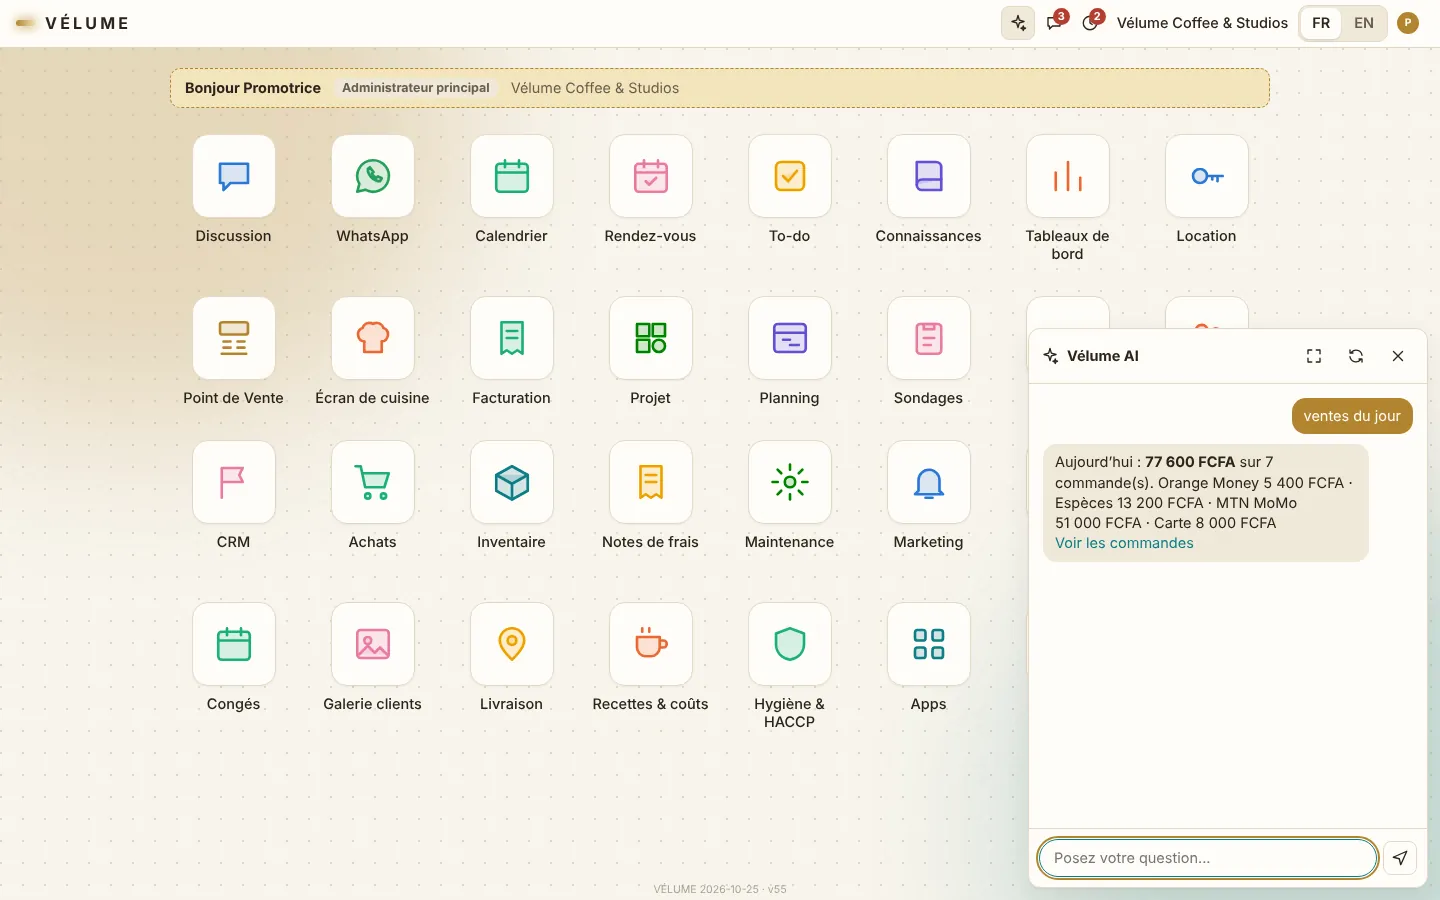
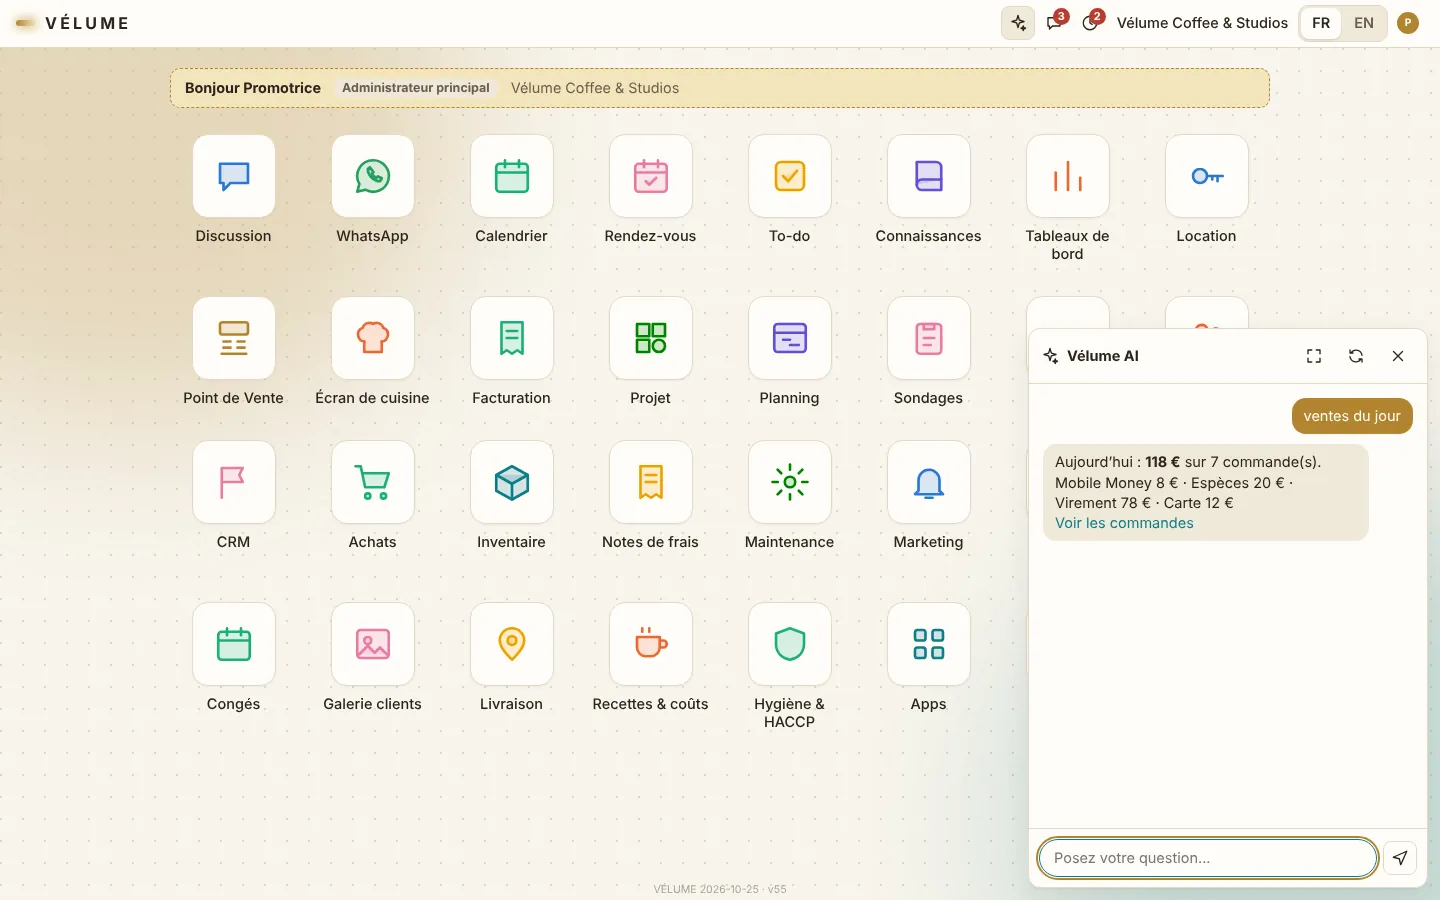
Vélume vendu dans le monde entier : plus de lien vers l'application, paiements génériques (espèces, carte, virement, mobile), multi-devises, captures en euros ; fond animé tech sur toutes les pages
Claude-Session: https://claude.ai/code/session_01NECcHvK372EpEwVuQBNQsb

Changed region(s): [[0.7188, 0.4978, 0.9688, 0.6222]]

diff --git a/src/routes/velume/+page.svelte b/src/routes/velume/+page.svelte
@@ -11,13 +11,12 @@
 	} from 'lucide-svelte';
 
 	const url = `${site.url}/velume`;
-	const appUrl = 'https://velum-app-cyan.vercel.app/';
 	const waDemo = `https://wa.me/33659173774?text=${encodeURIComponent('Bonjour, je souhaite une démonstration de Vélume, le logiciel de gestion tout-en-un.')}`;
 
 
 	const modules = [
 		{ icon: Store, t: 'Point de vente', s: 'Caisse tactile, tickets, sessions' },
-		{ icon: Wallet, t: 'Caisse & Mobile Money', s: 'Orange Money, MTN MoMo, clôtures' },
+		{ icon: Wallet, t: 'Caisse & paiements', s: 'Tous moyens de paiement, clôtures' },
 		{ icon: Receipt, t: 'Facturation', s: 'Devis, factures, paiements' },
 		{ icon: CalendarDays, t: 'Rendez-vous & location', s: 'Réservation en ligne, acomptes' },
 		{ icon: MessageCircle, t: 'WhatsApp & discussion', s: 'Clients, équipe, visio' },
@@ -32,12 +31,12 @@
 
 	const benefits = [
 		{ icon: Layers, title: 'Un seul logiciel au lieu de dix', text: 'Caisse, factures, stock, planning, réservations et messages au même endroit : fini les cahiers, Excel et applications qui ne se parlent pas.' },
-		{ icon: Smartphone, title: 'Pensé pour le Mobile Money', text: 'Orange Money, MTN MoMo, espèces et carte suivis séparément, montants en FCFA, clôture de caisse qui calcule les écarts.' },
+		{ icon: CreditCard, title: 'Tous les moyens de paiement', text: 'Espèces, carte bancaire, virement, Mobile Money ou portefeuille local : chaque paiement est suivi séparément, dans votre devise.' },
 		{ icon: ChartColumn, title: 'Vos chiffres en temps réel', text: 'Ventes du jour, factures en retard, stock bas : vous savez où en est votre entreprise sans attendre la fin du mois.' },
 		{ icon: Bot, title: 'Un assistant IA intégré', text: 'Demandez « ventes du jour » ou « créneaux libres demain » et Vélume répond, sans chercher dans les menus.' },
 		{ icon: MessageCircle, title: 'WhatsApp au cœur de la relation', text: 'Les demandes clients deviennent des opportunités dans le CRM, avec réponses types et appel vidéo.' },
 		{ icon: Monitor, title: 'Sur tous les écrans', text: 'Téléphone, tablette, poste de travail ou caisse tactile : l’interface s’adapte à chaque poste.' },
-		{ icon: Languages, title: 'Français et anglais', text: 'Interface, menus et rapports bilingues, en un clic, pour vos équipes et vos clients.' },
+		{ icon: Languages, title: 'Multilingue et multi-devises', text: 'Interface en français et en anglais, montants dans la devise de votre pays : Vélume s’adapte à votre marché.' },
 		{ icon: ShieldCheck, title: 'Droits par rôle', text: 'Gérant, barista, serveur, cuisinier, photographe : chacun ne voit que ce qui le concerne.' }
 	];
 
@@ -45,7 +44,7 @@
 		{ icon: Coffee, title: 'Cafés et salons de thé', text: 'Caisse, écran bar, recettes et coût des boissons, fidélité.' },
 		{ icon: UtensilsCrossed, title: 'Restaurants', text: 'Commandes en salle, écran cuisine, livraison et hygiène HACCP.' },
 		{ icon: Camera, title: 'Studios photo, vidéo, podcast', text: 'Réservation de créneaux, acomptes, galerie clients et contrats signés.' },
-		{ icon: ShoppingBag, title: 'Boutiques et commerces', text: 'Point de vente, stock, achats fournisseurs et Mobile Money.' },
+		{ icon: ShoppingBag, title: 'Boutiques et commerces', text: 'Point de vente, stock, achats fournisseurs et encaissements.' },
 		{ icon: Scissors, title: 'Salons et instituts', text: 'Rendez-vous en ligne, planning des équipes et cartes de fidélité.' },
 		{ icon: ClipboardList, title: 'PME de services', text: 'Devis, factures, projets, notes de frais et suivi des employés.' }
 	];
@@ -58,11 +57,11 @@
 	];
 
 	const faq = [
-		{ q: 'Qu’est-ce que Vélume ?', a: 'Vélume est un logiciel de gestion tout-en-un (de type ERP) conçu par Norbert Digital Service pour les cafés, restaurants, studios et commerces. Il réunit plus de 30 applications : point de vente, caisse et Mobile Money, facturation, inventaire, réservations, planning, CRM, WhatsApp et un assistant IA.' },
-		{ q: 'Vélume gère-t-il Orange Money et MTN Mobile Money ?', a: 'Oui. Chaque encaissement est enregistré par moyen de paiement (espèces, Orange Money, MTN MoMo, carte), les montants sont en FCFA et la clôture de caisse calcule automatiquement les écarts.' },
+		{ q: 'Qu’est-ce que Vélume ?', a: 'Vélume est un logiciel de gestion tout-en-un (de type ERP) conçu par Norbert Digital Service pour les cafés, restaurants, studios et commerces. Il réunit plus de 30 applications : point de vente, caisse multi-paiements, facturation, inventaire, réservations, planning, CRM, WhatsApp et un assistant IA.' },
+		{ q: 'Quels moyens de paiement Vélume gère-t-il ?', a: 'Tous les moyens de paiement courants : espèces, carte bancaire, virement, Mobile Money et portefeuilles électroniques locaux. Chaque encaissement est enregistré par moyen de paiement, dans votre devise, et la clôture de caisse calcule automatiquement les écarts.' },
 		{ q: 'Sur quels appareils fonctionne Vélume ?', a: 'Dans le navigateur, sur téléphone, tablette, ordinateur ou caisse tactile. L’affichage s’adapte au poste de travail, sans installation compliquée.' },
-		{ q: 'Pour quels types d’entreprises ?', a: 'Cafés, restaurants, studios photo et vidéo, boutiques, salons et PME de services, en Afrique francophone comme en France. Les modules s’activent selon votre activité.' },
-		{ q: 'Vélume existe-t-il en anglais ?', a: 'Oui, l’interface, les menus et les rapports sont disponibles en français et en anglais, avec un changement de langue en un clic.' },
+		{ q: 'Pour quels types d’entreprises ?', a: 'Cafés, restaurants, studios photo et vidéo, boutiques, salons et PME de services, partout dans le monde : Europe, Afrique, Amérique du Nord, Moyen-Orient. Les modules s’activent selon votre activité.' },
+		{ q: 'Vélume fonctionne-t-il dans mon pays ?', a: 'Oui. Vélume s’utilise dans le navigateur, partout dans le monde. L’interface est en français et en anglais, les montants s’affichent dans votre devise et les moyens de paiement se configurent selon votre marché.' },
 		{ q: 'Comment obtenir Vélume pour mon entreprise ?', a: 'Demandez une démonstration avec le formulaire ci-dessous ou sur WhatsApp. Nous vous présentons l’outil sur votre activité, puis nous le configurons à votre marque.' }
 	];
 
@@ -99,8 +98,8 @@
 </script>
 
 <Seo
-	title="Vélume : logiciel de gestion tout-en-un, caisse et Mobile Money"
-	description="Vélume, le logiciel de gestion tout-en-un pour cafés, restaurants, studios et commerces : caisse, Orange Money et MTN MoMo, facturation, stock, réservations, planning, CRM, WhatsApp et assistant IA. Démo gratuite."
+	title="Vélume : logiciel de gestion tout-en-un, caisse et facturation"
+	description="Vélume, le logiciel de gestion tout-en-un pour cafés, restaurants, studios et commerces du monde entier : caisse et tous moyens de paiement, facturation, stock, réservations, planning, CRM, WhatsApp et assistant IA. Démo gratuite."
 	image="/images/velume/velume-tableau-de-bord.webp"
 	jsonLd={[
 		{
@@ -110,11 +109,11 @@
 			applicationCategory: 'BusinessApplication',
 			applicationSubCategory: 'ERP, logiciel de caisse, logiciel de gestion',
 			operatingSystem: 'Web, Android, iOS, Windows, macOS',
-			description: 'Logiciel de gestion tout-en-un : point de vente, caisse et Mobile Money, facturation, inventaire, réservations, planning, CRM, WhatsApp et assistant IA, en français et en anglais.',
-			keywords: 'logiciel de gestion, ERP Afrique, logiciel de caisse, caisse enregistreuse, Mobile Money, Orange Money, MTN MoMo, gestion restaurant, gestion café, réservation studio, facturation FCFA, gestion de stock, planning employés',
+			description: 'Logiciel de gestion tout-en-un : point de vente, caisse multi-paiements, facturation, inventaire, réservations, planning, CRM, WhatsApp et assistant IA, en français et en anglais.',
+			keywords: 'logiciel de gestion, ERP, ERP PME, logiciel de caisse, caisse enregistreuse, point de vente, gestion restaurant, gestion café, logiciel de réservation, facturation, gestion de stock, planning employés, business management software, POS software',
 			inLanguage: ['fr', 'en'],
-			areaServed: ['Cameroun', 'Côte d’Ivoire', 'Sénégal', 'Gabon', 'France', 'Afrique francophone'],
-			screenshot: ['velume-tableau-de-bord', 'velume-assistant-ia', 'velume-ouverture-caisse', 'velume-caisse-mobile-money'].map((n) => `${site.url}/images/velume/${n}.webp`),
+			areaServed: 'Worldwide',
+			screenshot: ['velume-tableau-de-bord', 'velume-assistant-ia', 'velume-planning', 'velume-caisse-mobile-money'].map((n) => `${site.url}/images/velume/${n}.webp`),
 			featureList: modules.map((m) => `${m.t} : ${m.s}`).join(' ; '),
 			offers: { '@type': 'Offer', price: '0', priceCurrency: 'EUR', description: 'Démonstration gratuite' },
 			url,
@@ -144,16 +143,16 @@
 			<span class="badge"><span class="dot"></span> Nouveau · Une solution Norbert Digital Service</span>
 			<h1 class="title">Vélume, <span class="hl">toute votre entreprise</span> dans un seul logiciel</h1>
 			<p class="lead">
-				Caisse et Mobile Money, factures, stock, réservations, planning des équipes, CRM et WhatsApp : Vélume réunit plus de 30 applications
-				de gestion, pensées pour les cafés, restaurants, studios et commerces d’Afrique et d’ailleurs.
+				Caisse et paiements, factures, stock, réservations, planning des équipes, CRM et WhatsApp : Vélume réunit plus de 30 applications
+				de gestion, pensées pour les cafés, restaurants, studios et commerces, partout dans le monde.
 			</p>
 			<div class="ctas">
 				<a href="#demo" class="btn-lime">Demander une démo <ArrowRight class="w-4 h-4" /></a>
 				<a href="#visite" class="btn-line">Aperçu en images</a>
 			</div>
 			<ul class="hero-points">
-				<li><Check class="w-4 h-4" /> Orange Money et MTN MoMo</li>
-				<li><Check class="w-4 h-4" /> Montants en FCFA</li>
+				<li><Check class="w-4 h-4" /> Tous moyens de paiement</li>
+				<li><Check class="w-4 h-4" /> Multi-devises</li>
 				<li><Check class="w-4 h-4" /> Français et anglais</li>
 			</ul>
 		</div>
@@ -161,7 +160,7 @@
 		<div class="browser-wrap">
 			<div class="browser">
 				<div class="browser-bar"><span></span><span></span><span></span><em>Vélume · tableau de bord</em></div>
-				<img src="/images/velume/velume-tableau-de-bord.webp" alt="Vélume : tableau de bord des ventes du jour en FCFA, réparties entre espèces, Orange Money, MTN MoMo et carte" width="1440" height="900" fetchpriority="high" />
+				<img src="/images/velume/velume-tableau-de-bord.webp" alt="Vélume : tableau de bord des ventes du jour, réparties par moyen de paiement (espèces, mobile, virement, carte)" width="1440" height="900" fetchpriority="high" />
 			</div>
 			<div class="mobile-float">
 				<img src="/images/velume/velume-mobile.webp" alt="Vélume sur téléphone" width="780" height="1688" loading="lazy" decoding="async" />
@@ -174,8 +173,8 @@
 <section class="strip">
 	<div class="wrap strip-grid" use:reveal={{ stagger: 80 }}>
 		<div data-reveal-item><strong>30+</strong><span>applications intégrées</span></div>
-		<div data-reveal-item><strong>4 moyens</strong><span>espèces, Orange Money, MTN MoMo, carte</span></div>
-		<div data-reveal-item><strong>2 langues</strong><span>français et anglais</span></div>
+		<div data-reveal-item><strong>Tous paiements</strong><span>espèces, carte, virement, mobile</span></div>
+		<div data-reveal-item><strong>Monde entier</strong><span>multilingue et multi-devises</span></div>
 		<div data-reveal-item><strong>Tous écrans</strong><span>téléphone, tablette, caisse</span></div>
 	</div>
 </section>
@@ -188,7 +187,7 @@
 			<h2 class="h2">Votre activité ne tient plus dans un cahier et trois applications</h2>
 		</div>
 		<div class="why-text">
-			<p>Les ventes sont notées à la caisse, les paiements Mobile Money sur le téléphone du gérant, les factures dans Excel, les réservations sur WhatsApp et le planning sur un papier au mur. Le soir, personne ne sait vraiment combien l’entreprise a gagné.</p>
+			<p>Les ventes sont notées à la caisse, les paiements par carte et par mobile sur un autre outil, les factures dans Excel, les réservations sur WhatsApp et le planning sur un papier au mur. Le soir, personne ne sait vraiment combien l’entreprise a gagné.</p>
 			<p>Vélume met tout au même endroit. <strong>Chaque vente, chaque paiement et chaque réservation alimente automatiquement vos tableaux de bord</strong> : vous pilotez avec des chiffres justes, en temps réel.</p>
 		</div>
 	</div>
@@ -204,12 +203,12 @@
 		</header>
 		<div class="duo" use:reveal={{ stagger: 120 }}>
 			<figure class="viewer" data-reveal-item>
-				<img src="/images/velume/velume-assistant-ia.webp" alt="Vélume AI : l’assistant répond à la question « ventes du jour » avec le total en FCFA et le détail Orange Money, MTN MoMo, espèces et carte" width="1440" height="900" loading="lazy" decoding="async" />
+				<img src="/images/velume/velume-assistant-ia.webp" alt="Vélume AI : l’assistant répond à la question « ventes du jour » avec le total et le détail par moyen de paiement" width="1440" height="900" loading="lazy" decoding="async" />
 				<figcaption><b>Assistant Vélume AI</b>Une question en français, une réponse chiffrée : ventes du jour, factures en retard, créneaux libres.</figcaption>
 			</figure>
 			<figure class="viewer" data-reveal-item>
-				<img src="/images/velume/velume-ouverture-caisse.webp" alt="Vélume : ouverture de caisse avec comptage des billets et pièces en FCFA" width="1440" height="900" loading="lazy" decoding="async" />
-				<figcaption><b>Point de vente</b>Ouverture de caisse avec comptage des billets et pièces en FCFA : le tiroir attendu le soir est calculé tout seul.</figcaption>
+				<img src="/images/velume/velume-planning.webp" alt="Vélume : planning hebdomadaire des employés par poste" width="1440" height="900" loading="lazy" decoding="async" />
+				<figcaption><b>Planning des équipes</b>Les horaires de chaque employé sur la semaine, publiés en un clic et recopiés d’une semaine à l’autre.</figcaption>
 			</figure>
 		</div>
 		<p class="note"><Lock class="w-4 h-4" /> Vous voulez voir le reste ? <a href="#demo">Demandez une démonstration</a> : nous vous montrons tous les modules sur votre activité.</p>
@@ -255,17 +254,17 @@
 <section class="night">
 	<div class="wrap dash-grid">
 		<div use:reveal>
-			<span class="kicker light">Caisse & Mobile Money</span>
+			<span class="kicker light">Caisse & paiements</span>
 			<h2 class="h2 light">Chaque franc encaissé est suivi, du tiroir au téléphone</h2>
-			<p class="night-text">À l’ouverture, l’équipe compte le fond de caisse. Pendant la journée, chaque vente est rangée par moyen de paiement. Le soir, Vélume calcule ce que le tiroir et les comptes Mobile Money doivent contenir, et signale le moindre écart.</p>
+			<p class="night-text">À l’ouverture, l’équipe compte le fond de caisse. Pendant la journée, chaque vente est rangée par moyen de paiement. Le soir, Vélume calcule ce que le tiroir et chaque compte de paiement doivent contenir, et signale le moindre écart.</p>
 			<ul class="night-list">
-				<li><Check class="w-4 h-4" /> Espèces, Orange Money, MTN MoMo et carte séparés</li>
-				<li><Check class="w-4 h-4" /> Comptage des billets et pièces en FCFA</li>
-				<li><Check class="w-4 h-4" /> Rapprochement des transactions Mobile Money</li>
+				<li><Check class="w-4 h-4" /> Espèces, carte, virement et paiement mobile séparés</li>
+				<li><Check class="w-4 h-4" /> Comptage du fond de caisse, dans votre devise</li>
+				<li><Check class="w-4 h-4" /> Rapprochement des paiements électroniques</li>
 			</ul>
 		</div>
 		<figure class="viewer" use:reveal={{ delay: 120 }}>
-			<img src="/images/velume/velume-caisse-mobile-money.webp" alt="Vélume : vue d’ensemble Caisse et Mobile Money avec espèces, Orange Money, MTN MoMo, carte et clôtures de caisse" width="1440" height="900" loading="lazy" decoding="async" />
+			<img src="/images/velume/velume-caisse-mobile-money.webp" alt="Vélume : vue d’ensemble de la caisse avec espèces, paiement mobile, virement, carte et clôtures de caisse" width="1440" height="900" loading="lazy" decoding="async" />
 		</figure>
 	</div>
 </section>
@@ -313,7 +312,7 @@
 		<div use:reveal>
 			<span class="kicker">Questions fréquentes</span>
 			<h2 class="h2">Tout savoir sur le logiciel de gestion Vélume</h2>
-			<p class="sub">Mobile Money, appareils, secteurs et langues : les réponses aux questions qu’on nous pose le plus. Pour aller plus loin, lisez notre <a class="inline-link" href="/blog/velume-logiciel-de-gestion-tout-en-un-caisse-mobile-money-stock">article complet sur Vélume</a>.</p>
+			<p class="sub">Paiements, appareils, secteurs et pays : les réponses aux questions qu’on nous pose le plus. Pour aller plus loin, lisez notre <a class="inline-link" href="/blog/velume-logiciel-de-gestion-tout-en-un-caisse-mobile-money-stock">article complet sur Vélume</a>.</p>
 		</div>
 		<div class="faq">
 			{#each faq as f}
@@ -341,7 +340,6 @@
 			<div class="direct">
 				<a href={waDemo} target="_blank" rel="noopener"><MessageCircle class="w-4 h-4" /> WhatsApp France : +33 6 59 17 37 74</a>
 				<a href={`https://wa.me/237659324756?text=${encodeURIComponent('Bonjour, je souhaite une démonstration de Vélume.')}`} target="_blank" rel="noopener"><MessageCircle class="w-4 h-4" /> WhatsApp Cameroun : +237 6 59 32 47 56</a>
-				<a href={appUrl} target="_blank" rel="noopener"><Globe class="w-4 h-4" /> Ouvrir l’application Vélume</a>
 			</div>
 		</div>
 
@@ -373,7 +371,7 @@
 							{#each sectorOptions as o}<option value={o}>{o}</option>{/each}
 						</select>
 					</label>
-					<label><span>Votre besoin <span class="opt">(facultatif)</span></span><textarea name="message" rows="3" placeholder="Ex. : 2 points de vente, suivi Mobile Money et stock"></textarea></label>
+					<label><span>Votre besoin <span class="opt">(facultatif)</span></span><textarea name="message" rows="3" placeholder="Ex. : 2 points de vente, suivi des paiements et du stock"></textarea></label>
 					<button type="submit" class="btn-lime full" disabled={sending}>
 						{sending ? 'Envoi en cours…' : 'Recevoir ma démonstration'} <ArrowRight class="w-4 h-4" />
 					</button>

diff --git a/src/lib/components/TechBackground.svelte b/src/lib/components/TechBackground.svelte
@@ -1,0 +1,83 @@
+<!--
+	Fond animé « tech » sur toutes les pages : grille fine qui défile + flux de données.
+	Purement décoratif : CSS uniquement (aucun JS), transform GPU, ignoré par les lecteurs d’écran,
+	désactivé si l’utilisateur demande moins d’animations.
+-->
+<div class="tech-bg" aria-hidden="true">
+	<div class="tb-grid"></div>
+	<div class="tb-beams">
+		{#each [8, 21, 34, 47, 60, 73, 86, 95] as left, i}
+			<span style="left: {left}%; animation-delay: {-(i * 1.7)}s; animation-duration: {7 + (i % 4) * 1.5}s"></span>
+		{/each}
+	</div>
+	<div class="tb-dots">
+		{#each [[12, 18], [28, 62], [44, 30], [63, 78], [79, 22], [91, 55], [6, 84], [53, 48]] as [x, y], i}
+			<i style="left: {x}%; top: {y}%; animation-delay: {-(i * 0.9)}s"></i>
+		{/each}
+	</div>
+</div>
+
+<style>
+	.tech-bg {
+		position: fixed;
+		inset: 0;
+		z-index: 1;
+		pointer-events: none;
+		overflow: hidden;
+		contain: strict;
+	}
+	.tb-grid {
+		position: absolute;
+		inset: -96px 0 0 0;
+		background-image:
+			linear-gradient(rgb(var(--accent) / 0.11) 1px, transparent 1px),
+			linear-gradient(90deg, rgb(var(--accent) / 0.11) 1px, transparent 1px);
+		background-size: 96px 96px;
+		-webkit-mask-image: radial-gradient(ellipse 80% 70% at 50% 40%, #000 25%, transparent 80%);
+		mask-image: radial-gradient(ellipse 80% 70% at 50% 40%, #000 25%, transparent 80%);
+		animation: tb-scroll 14s linear infinite;
+		will-change: transform;
+	}
+	@keyframes tb-scroll {
+		to { transform: translate3d(0, 96px, 0); }
+	}
+	.tb-beams span {
+		position: absolute;
+		top: 0;
+		width: 1px;
+		height: 140px;
+		background: linear-gradient(180deg, transparent, rgb(var(--accent) / 0.9), transparent);
+		animation: tb-fall linear infinite;
+		will-change: transform;
+		opacity: 0.75;
+		box-shadow: 0 0 6px rgb(var(--accent) / 0.5);
+	}
+	@keyframes tb-fall {
+		from { transform: translate3d(0, -160px, 0); }
+		to { transform: translate3d(0, 110vh, 0); }
+	}
+	.tb-dots i {
+		position: absolute;
+		width: 4px;
+		height: 4px;
+		border-radius: 50%;
+		background: rgb(var(--accent));
+		box-shadow: 0 0 10px rgb(var(--accent) / 0.8);
+		opacity: 0;
+		animation: tb-blink 6s ease-in-out infinite;
+	}
+	@keyframes tb-blink {
+		0%, 100% { opacity: 0; transform: scale(0.6); }
+		50% { opacity: 0.7; transform: scale(1); }
+	}
+	@media (max-width: 767px) {
+		.tb-beams span:nth-child(even), .tb-dots i:nth-child(even) { display: none; }
+	}
+	@media (prefers-reduced-motion: reduce) {
+		.tb-grid, .tb-beams span, .tb-dots i { animation: none; }
+		.tb-beams, .tb-dots { display: none; }
+	}
+	@media print {
+		.tech-bg { display: none; }
+	}
+</style>

diff --git a/src/routes/+page.svelte b/src/routes/+page.svelte
@@ -58,15 +58,15 @@
 <section class="vendia velume" aria-labelledby="velume-title">
 	<div class="wrap vendia-grid">
 		<a href="/velume" class="v-shot" use:reveal={{ delay: 120 }} aria-label="Découvrir Vélume">
-			<img src="/images/velume/velume-tableau-de-bord.webp" alt="Vélume : tableau de bord des ventes du jour en FCFA avec Orange Money et MTN MoMo" width="1440" height="900" loading="lazy" decoding="async" />
+			<img src="/images/velume/velume-tableau-de-bord.webp" alt="Vélume : tableau de bord des ventes du jour par moyen de paiement" width="1440" height="900" loading="lazy" decoding="async" />
 		</a>
 		<div use:reveal>
 			<span class="v-badge"><span class="v-dot"></span> Notre produit · Nouveau</span>
 			<h2 id="velume-title" class="h2">Vélume, le logiciel de gestion tout-en-un</h2>
-			<p class="sub">Caisse et Mobile Money, factures, stock, réservations, planning, CRM et WhatsApp dans une seule application. Pour les cafés, restaurants, studios et commerces.</p>
+			<p class="sub">Caisse et paiements, factures, stock, réservations, planning, CRM et WhatsApp dans une seule application. Pour les cafés, restaurants, studios et commerces du monde entier.</p>
 			<ul class="v-points">
 				<li><Check class="w-4 h-4" /> Plus de 30 applications intégrées</li>
-				<li><Check class="w-4 h-4" /> Orange Money, MTN MoMo, montants en FCFA</li>
+				<li><Check class="w-4 h-4" /> Tous moyens de paiement, multi-devises</li>
 				<li><Check class="w-4 h-4" /> Assistant IA, en français et en anglais</li>
 			</ul>
 			<div class="v-ctas">

diff --git a/src/routes/agence-web/+page.svelte b/src/routes/agence-web/+page.svelte
@@ -10,7 +10,7 @@
 		{ icon: Bot, title: 'Chatbot et intelligence artificielle', text: 'Assistant IA sur votre site ou sur WhatsApp, qui répond à vos clients 24h/24 et qualifie vos prospects.', href: '/services/intelligence-artificielle' },
 		{ icon: Workflow, title: 'Automatisation', text: 'Devis, factures, relances, CRM : vos tâches répétitives tournent seules grâce à n8n et à l’IA.', href: '/services/automatisation-n8n' },
 		{ icon: Bot, title: 'Vendia, agent WhatsApp', text: 'Notre agent commercial sur WhatsApp : devis, paiement Mobile Money ou carte et contrat en PDF, 24h/24.', href: '/vendia' },
-		{ icon: Workflow, title: 'Vélume, logiciel de gestion', text: 'Caisse, Mobile Money, factures, stock, réservations et planning dans une seule application.', href: '/velume' },
+		{ icon: Workflow, title: 'Vélume, logiciel de gestion', text: 'Caisse et tous moyens de paiement, factures, stock, réservations et planning dans une seule application.', href: '/velume' },
 		{ icon: Palette, title: 'Design UI/UX', text: 'Maquettes claires et modernes, une identité cohérente et une navigation qui guide vers le contact.', href: '/services/design-ui-ux' },
 	];
 

diff --git a/src/routes/+layout.svelte b/src/routes/+layout.svelte
@@ -1,4 +1,6 @@
 <script lang="ts">
+	import TechBackground from '$lib/components/TechBackground.svelte';
+
 	import '../app.css';
 	import Navbar from '$lib/components/Navbar.svelte';
 	import Footer from '$lib/components/Footer.svelte';
@@ -175,6 +177,8 @@
 	})}</script>`}
 </svelte:head>
 
+
+<TechBackground />
 
 <div class="min-h-screen flex flex-col">
 	<TopBar />
